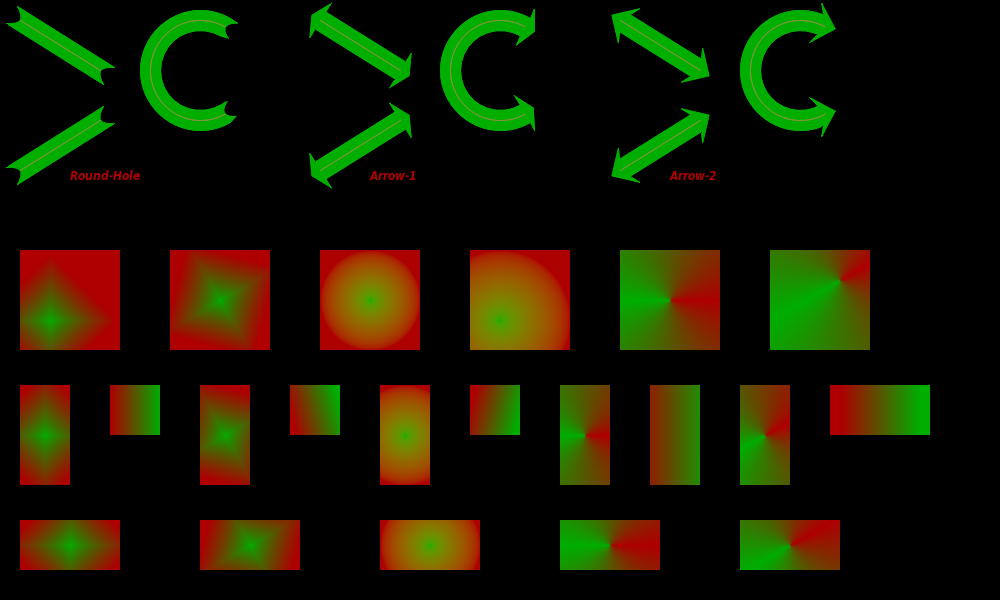
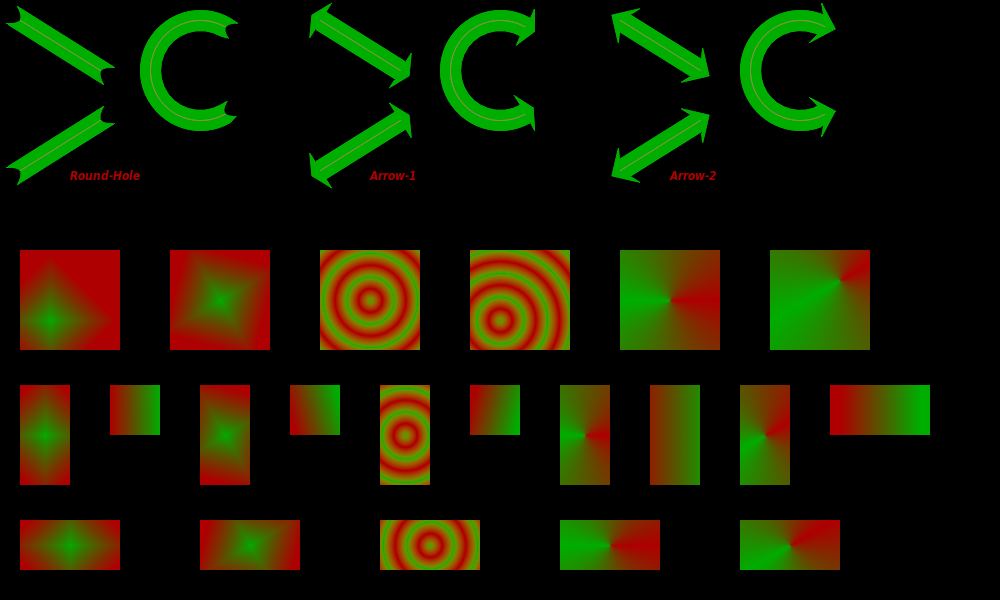
Experiment with radial gradient

diff --git a/src/Pt-Gfx/Rasterizer2.cpp b/src/Pt-Gfx/Rasterizer2.cpp
@@ -710,6 +710,7 @@ void Rasterizer2::updateGradientBrush_gen2DRadialGradient(Pt::int32_t width,
     const float dh     = fabs(height - centerY);
     const float radius = std::max( dw, dh );
     const float ilen   = 1.0f / radius;
+    const float scale  = radius / (std::max(width, height) * 0.5f);
 
     // Generate the gradient
     Pt::uint8_t* pixel = _brushBuffer.data();
@@ -726,11 +727,11 @@ void Rasterizer2::updateGradientBrush_gen2DRadialGradient(Pt::int32_t width,
 
             // Calculate the distance and blending factor
             const float dist  = sqrtf(dx * dx + dy * dy) * ilen;
-#if 1
+#if 0
             const float sdist = powf(dist, 0.8f);
 #else
             const float repcn = 3.0f;
-            const float sdist = fabs(sinf(repcn * 1.414f * piHalf<float>() * dist));
+            const float sdist = fabs(sinf(repcn * scale * 1.414f * piHalf<float>() * dist));
 #endif
             const float mf    = (sdist >= 1.0f) ? 1.0f : sdist;
             const float imf   = 1.0f - mf;
